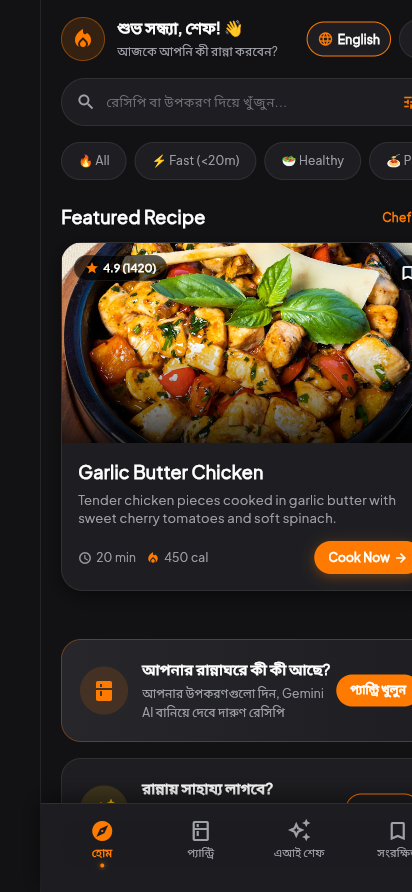
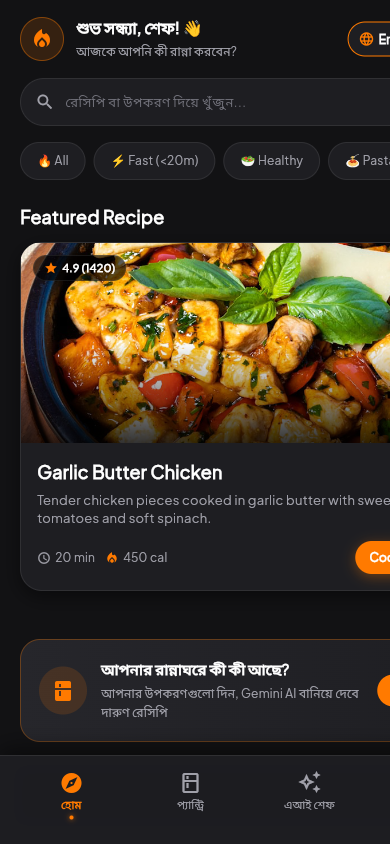
fix(screenshots): capture full-width symmetrical mobile screenshots with zero margin offset

diff --git a/flutter_app/lib/screens/main_scaffold.dart b/flutter_app/lib/screens/main_scaffold.dart
@@ -24,40 +24,41 @@ class MainScaffold extends StatelessWidget {
           SavedScreen(appState: appState),
         ];
 
-        return Scaffold(
-          backgroundColor: AppColors.background,
-          body: Center(
-            child: ConstrainedBox(
-              constraints: const BoxConstraints(maxWidth: 420),
-              child: Container(
-                decoration: BoxDecoration(
-                  color: AppColors.background,
-                  border: Border.symmetric(
-                    vertical: BorderSide(
-                      color: MediaQuery.of(context).size.width > 420
-                          ? AppColors.borderSubtle
-                          : Colors.transparent,
-                    ),
-                  ),
-                ),
-                child: Column(
-                  children: [
-                    Expanded(
-                      child: IndexedStack(
-                        index: appState.currentTabIndex,
-                        children: screens,
-                      ),
-                    ),
-                    BottomNavBar(
-                      currentIndex: appState.currentTabIndex,
-                      onTabSelected: (index) => appState.setTab(index),
-                      language: appState.language,
-                    ),
-                  ],
-                ),
+        final isLargeScreen = MediaQuery.of(context).size.width > 600;
+        final content = Column(
+          children: [
+            Expanded(
+              child: IndexedStack(
+                index: appState.currentTabIndex,
+                children: screens,
               ),
             ),
-          ),
+            BottomNavBar(
+              currentIndex: appState.currentTabIndex,
+              onTabSelected: (index) => appState.setTab(index),
+              language: appState.language,
+            ),
+          ],
+        );
+
+        return Scaffold(
+          backgroundColor: AppColors.background,
+          body: isLargeScreen
+              ? Center(
+                  child: ConstrainedBox(
+                    constraints: const BoxConstraints(maxWidth: 420),
+                    child: Container(
+                      decoration: const BoxDecoration(
+                        color: AppColors.background,
+                        border: Border.symmetric(
+                          vertical: BorderSide(color: AppColors.borderSubtle),
+                        ),
+                      ),
+                      child: content,
+                    ),
+                  ),
+                )
+              : content,
         );
       },
     );

diff --git a/flutter_app/web/index.html b/flutter_app/web/index.html
@@ -31,6 +31,16 @@
 
   <title>cooksmart</title>
   <link rel="manifest" href="manifest.json">
+  <style>
+    html, body {
+      margin: 0;
+      padding: 0;
+      width: 100%;
+      height: 100%;
+      overflow: hidden;
+      background-color: #0B0C10;
+    }
+  </style>
 </head>
 <body>
   <!--
